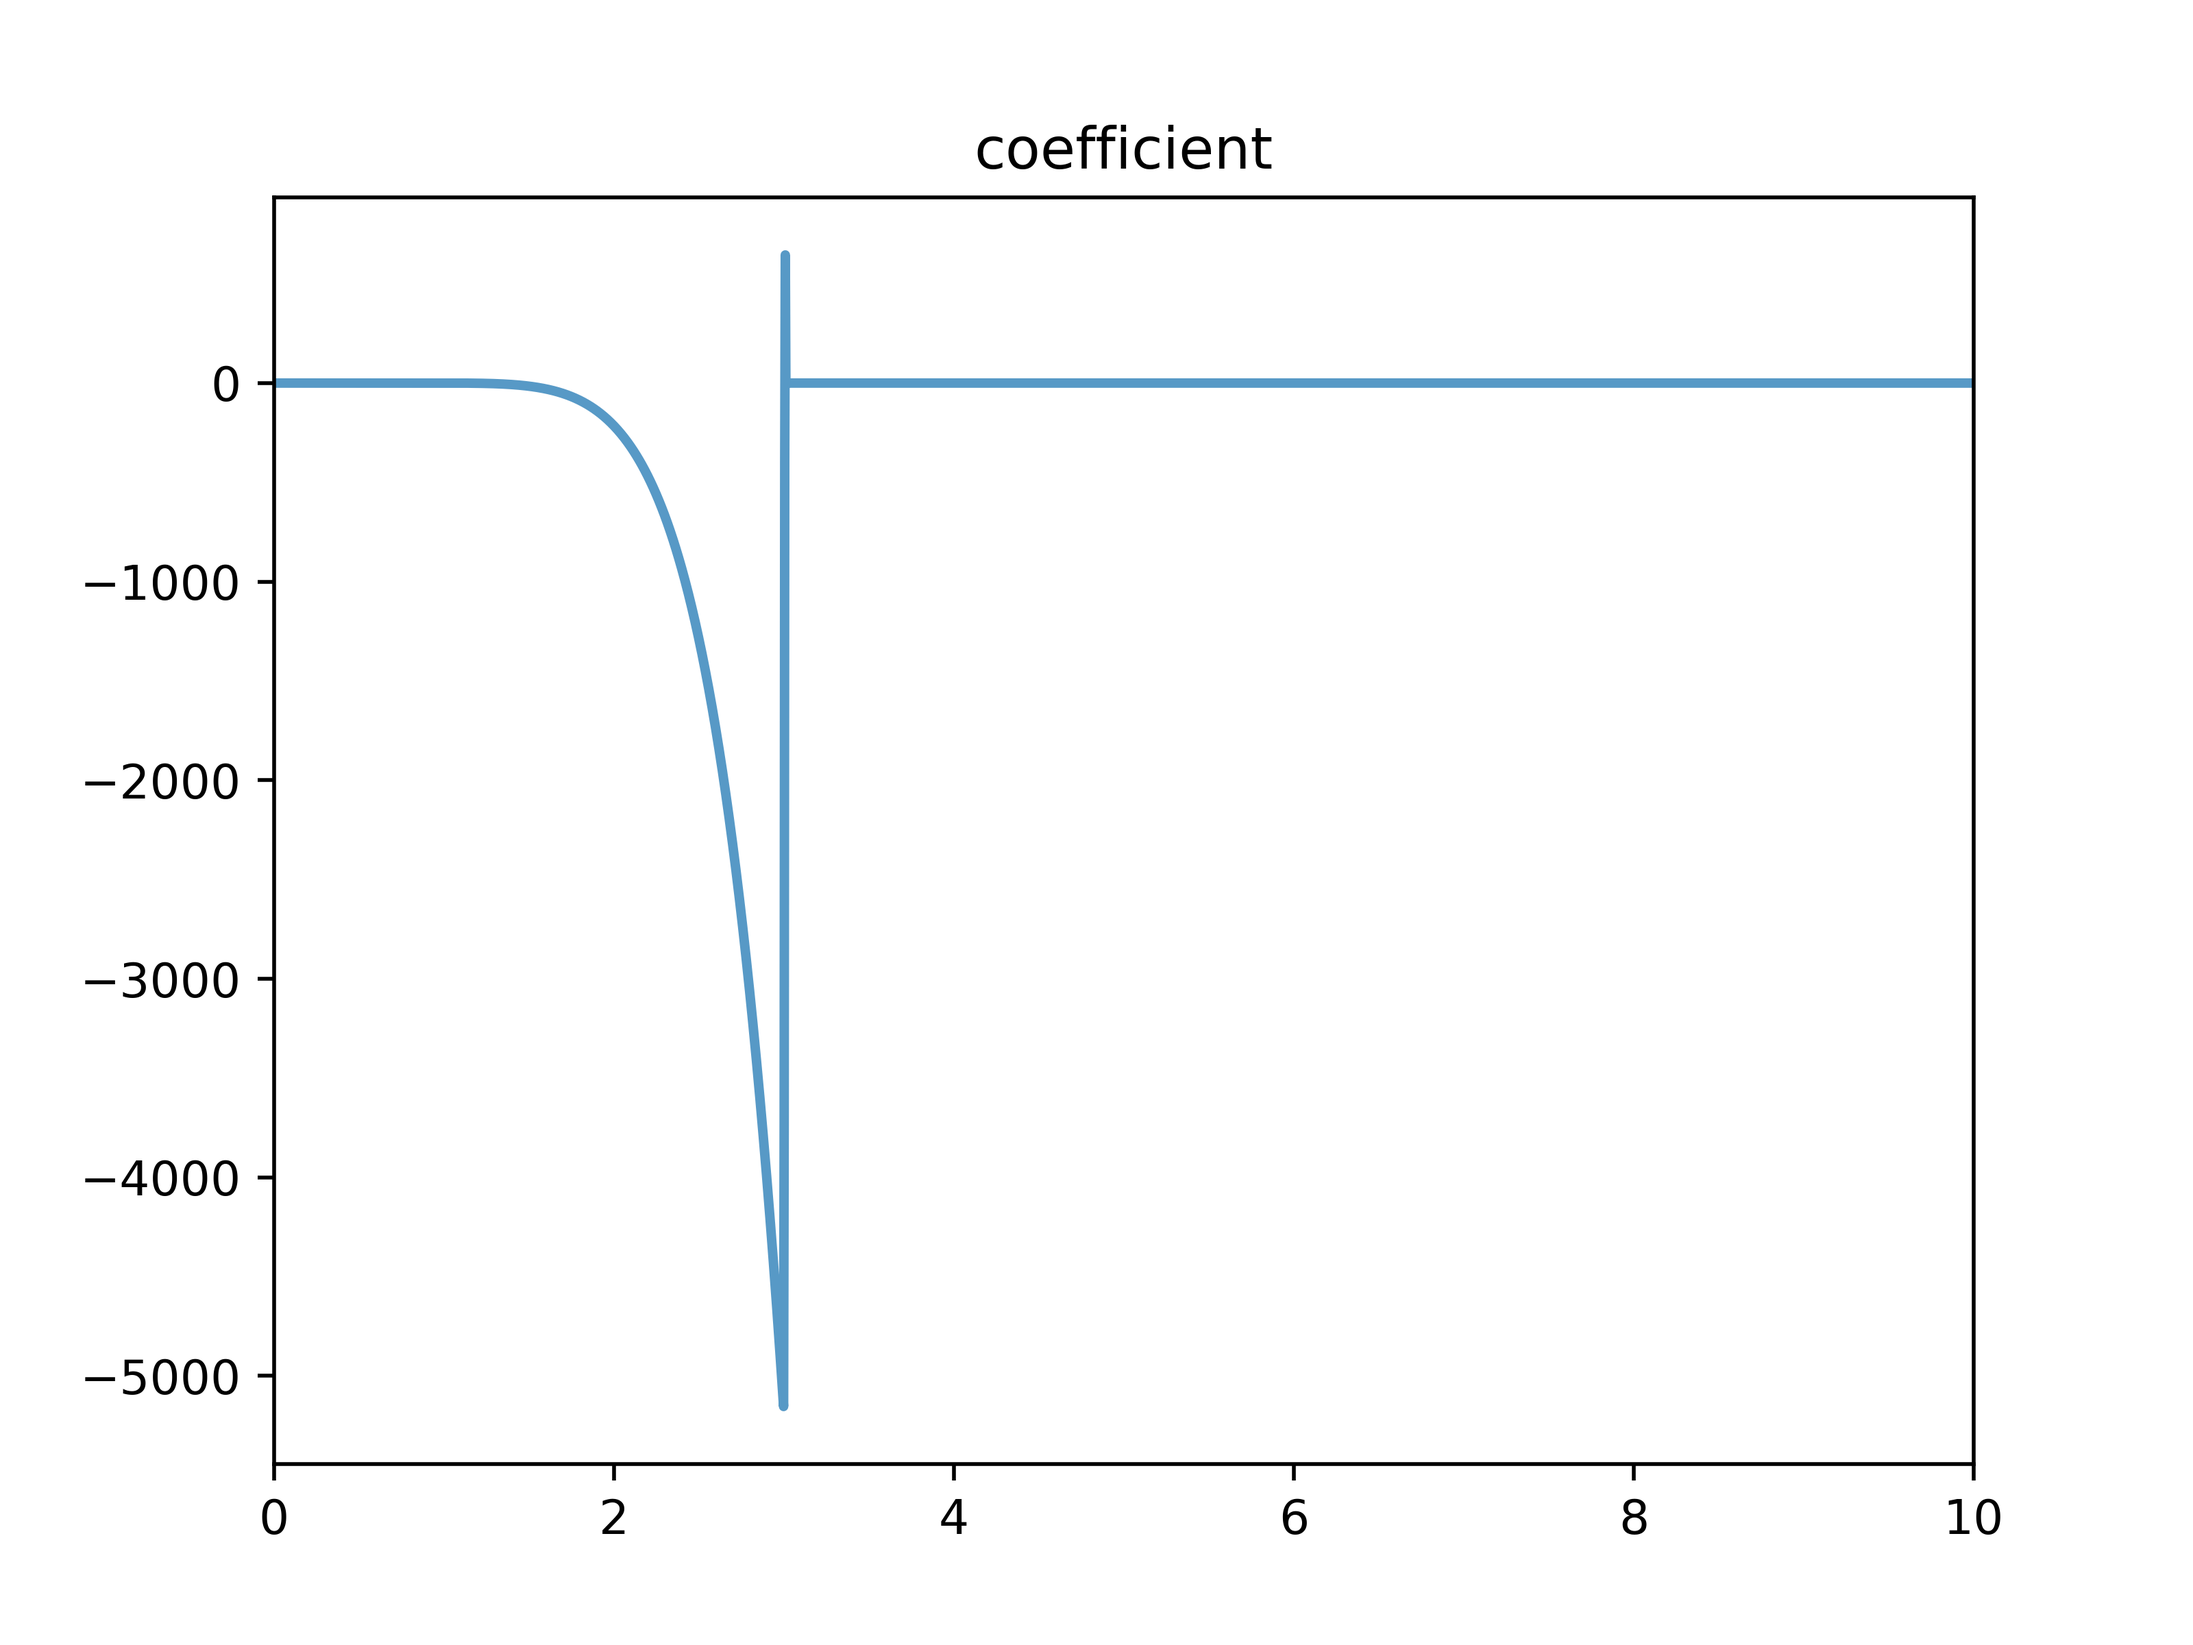
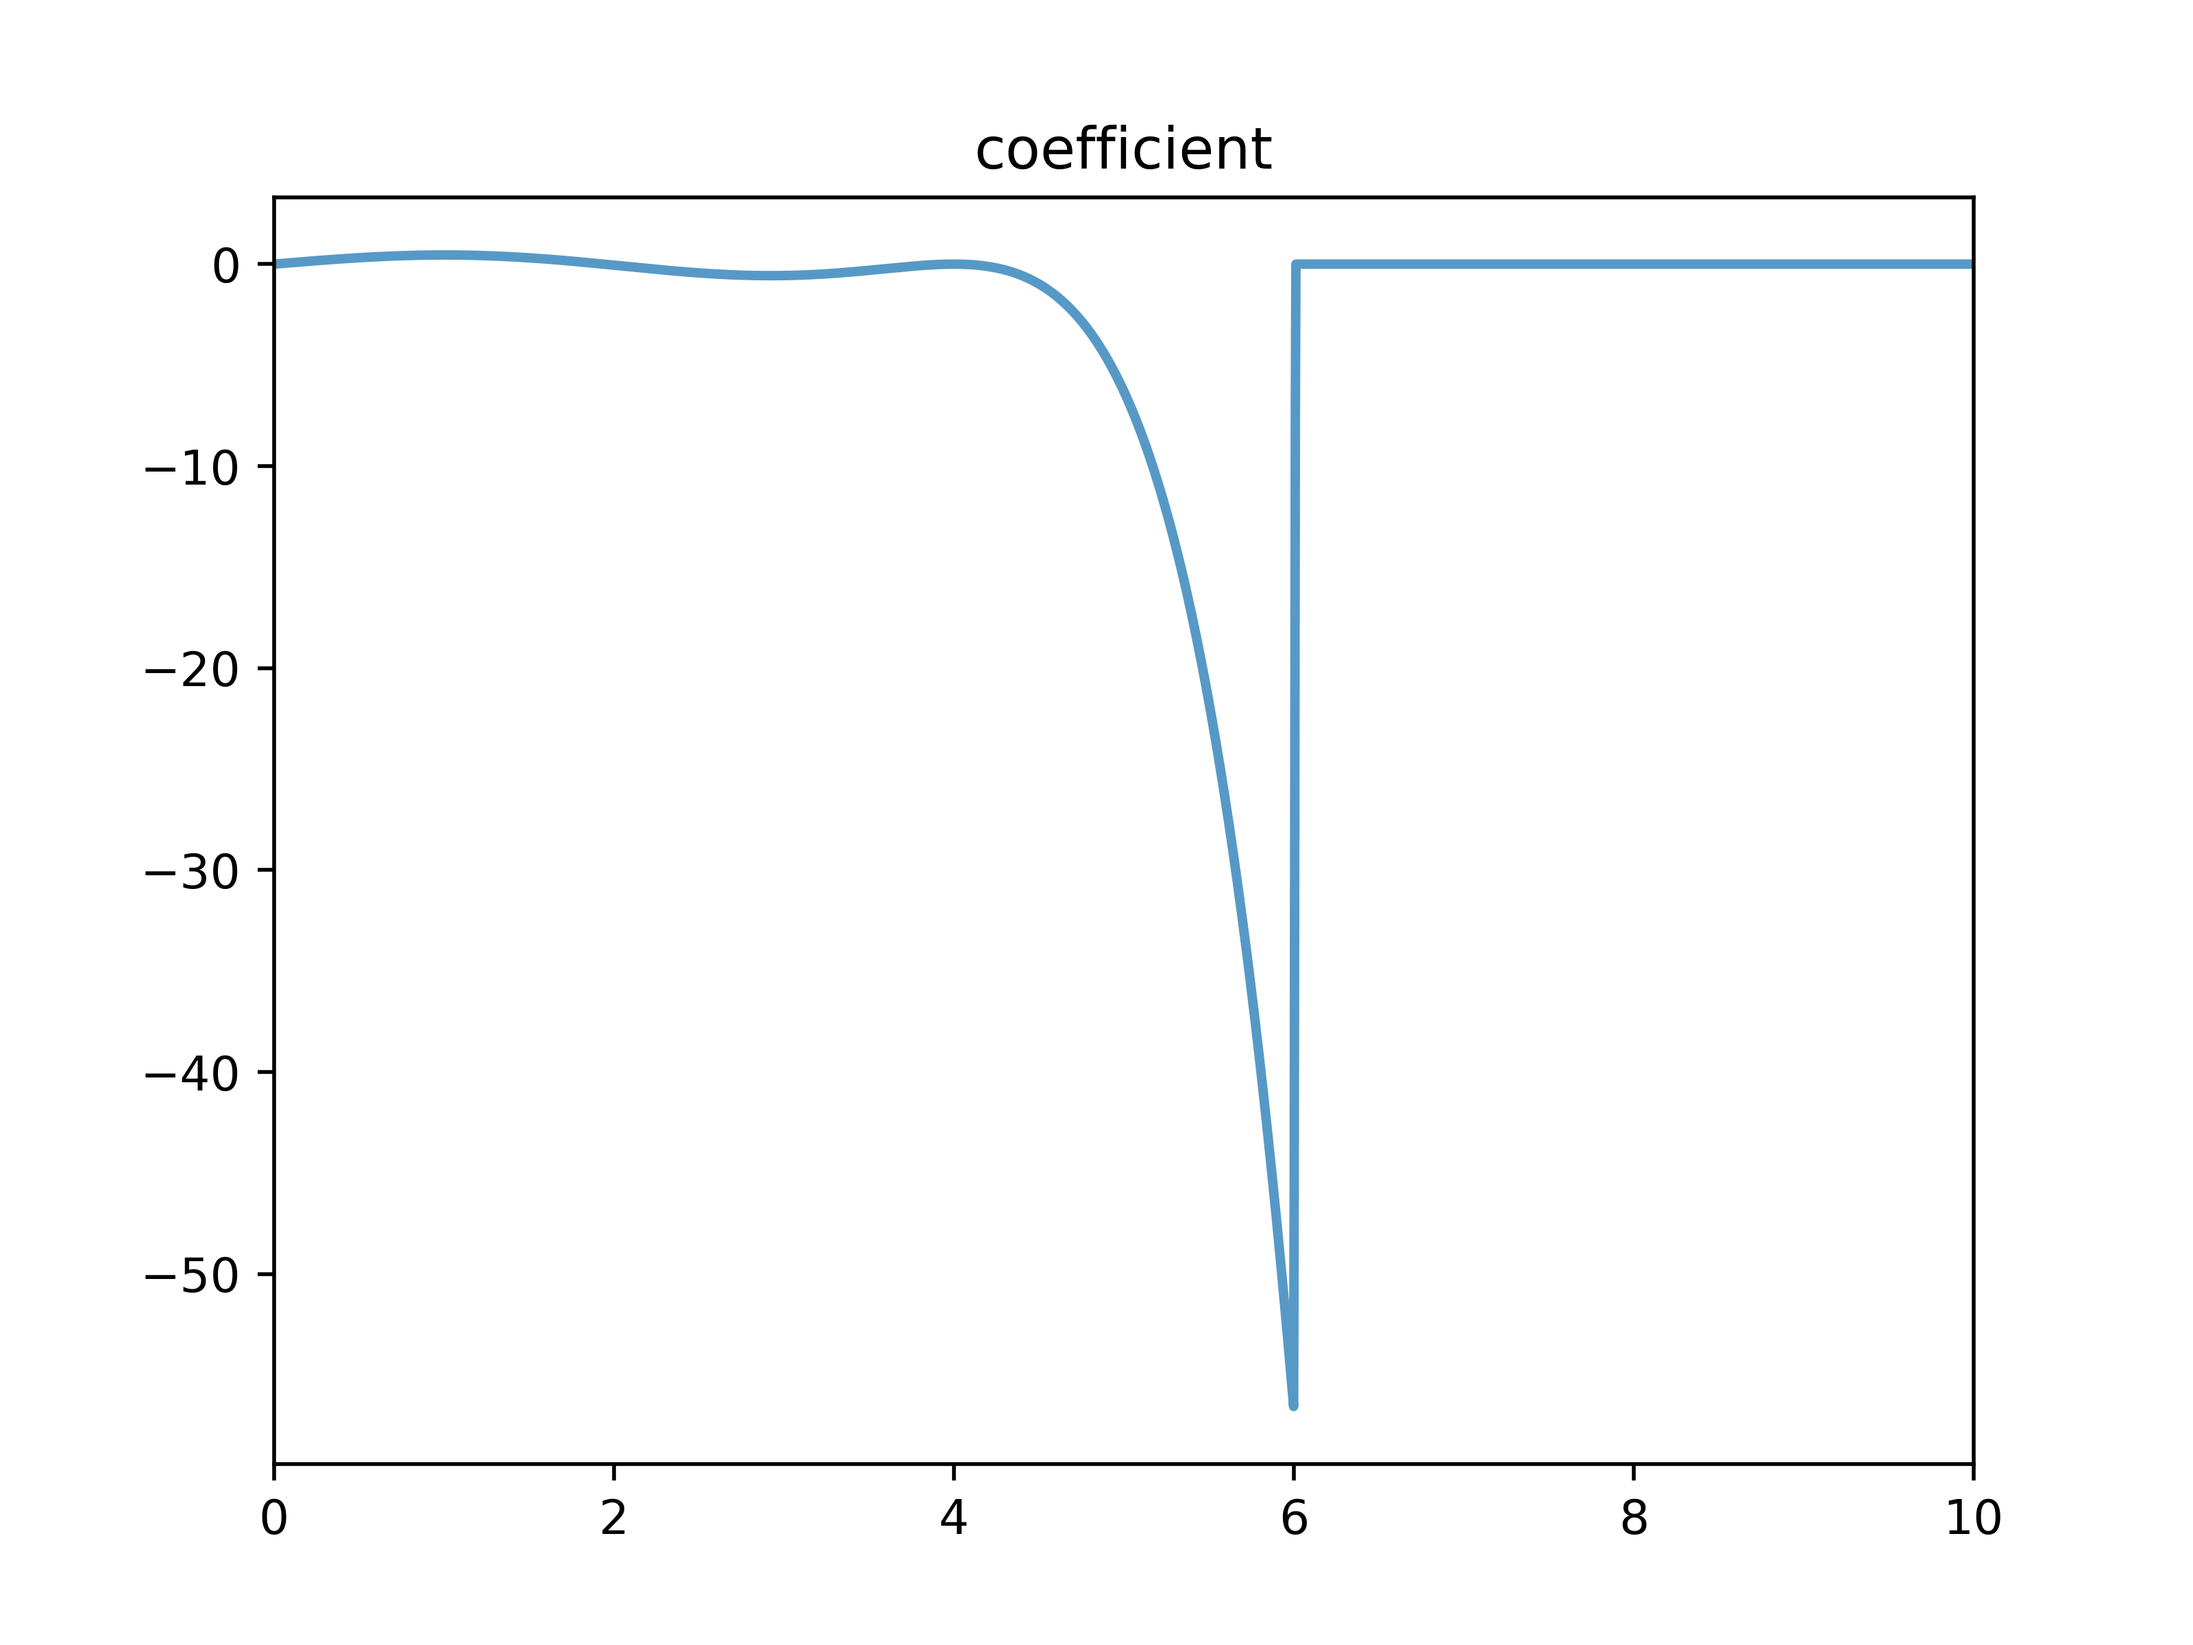
update

diff --git a/1d/solver.py b/1d/solver.py
@@ -154,5 +154,5 @@ def plot_coeff(x0,x1,A,npts,filename):
     plt.plot(pts, avals, alpha=.75, linewidth=2)
     plt.xlim([x0, x1])
     plt.title('coefficient')
-    plt.savefig(coefplotfile, dpi=500)
+    plt.savefig(filename, dpi=500)
     print("> coefficient plotted to {}".format(filename))

diff --git a/1d/test.py b/1d/test.py
@@ -57,7 +57,7 @@ mesh = IntervalMesh(nelts, x0, x1)
 x , = SpatialCoordinate(mesh)
 # define coefficient A
 dmax=0.2
-s=0.25
+s=4
 nn=x1-x0+1
 d=-dmax+np.random.rand(nn)*(2*dmax)
 f= conditional(abs(x-2)>s,0,6/8*x*(1-pow(x,2)/pow(s,2))**3-6/(8*pow(s,2))*x*(1-pow(x,2)/pow(s,2))**2*(3*x**2+1))
